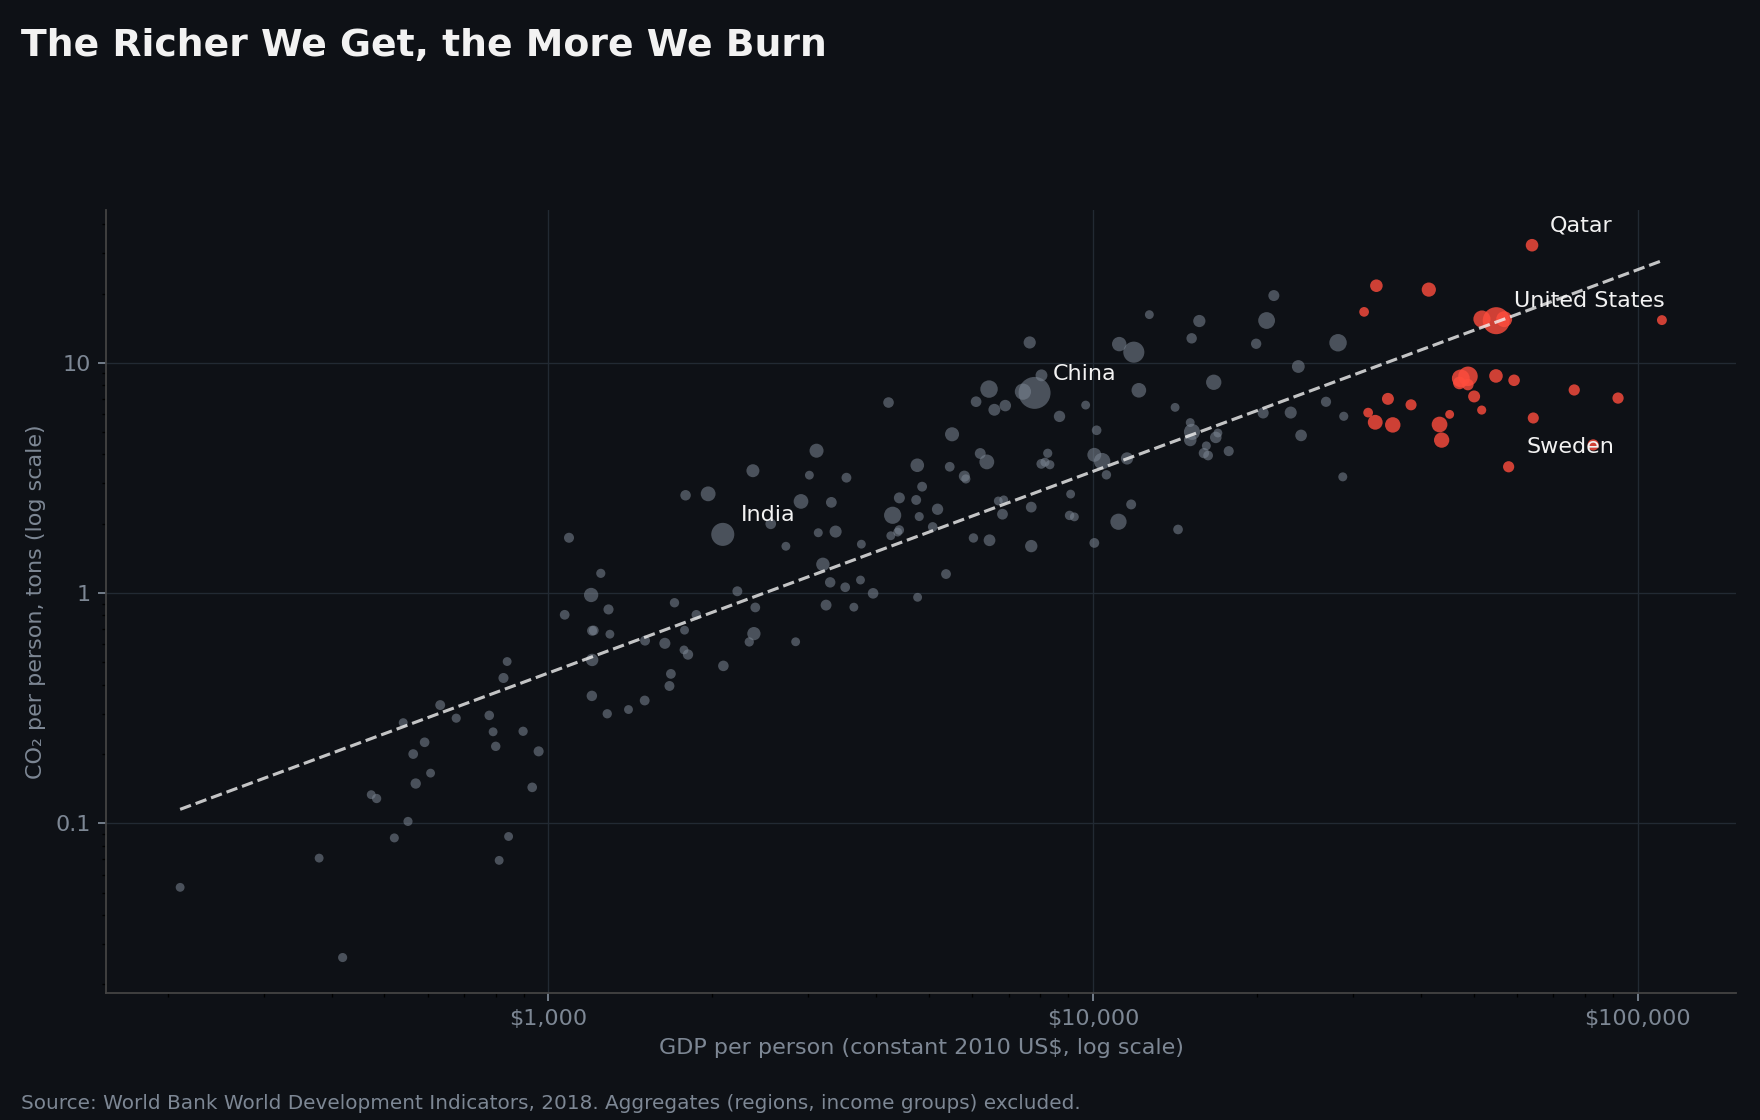
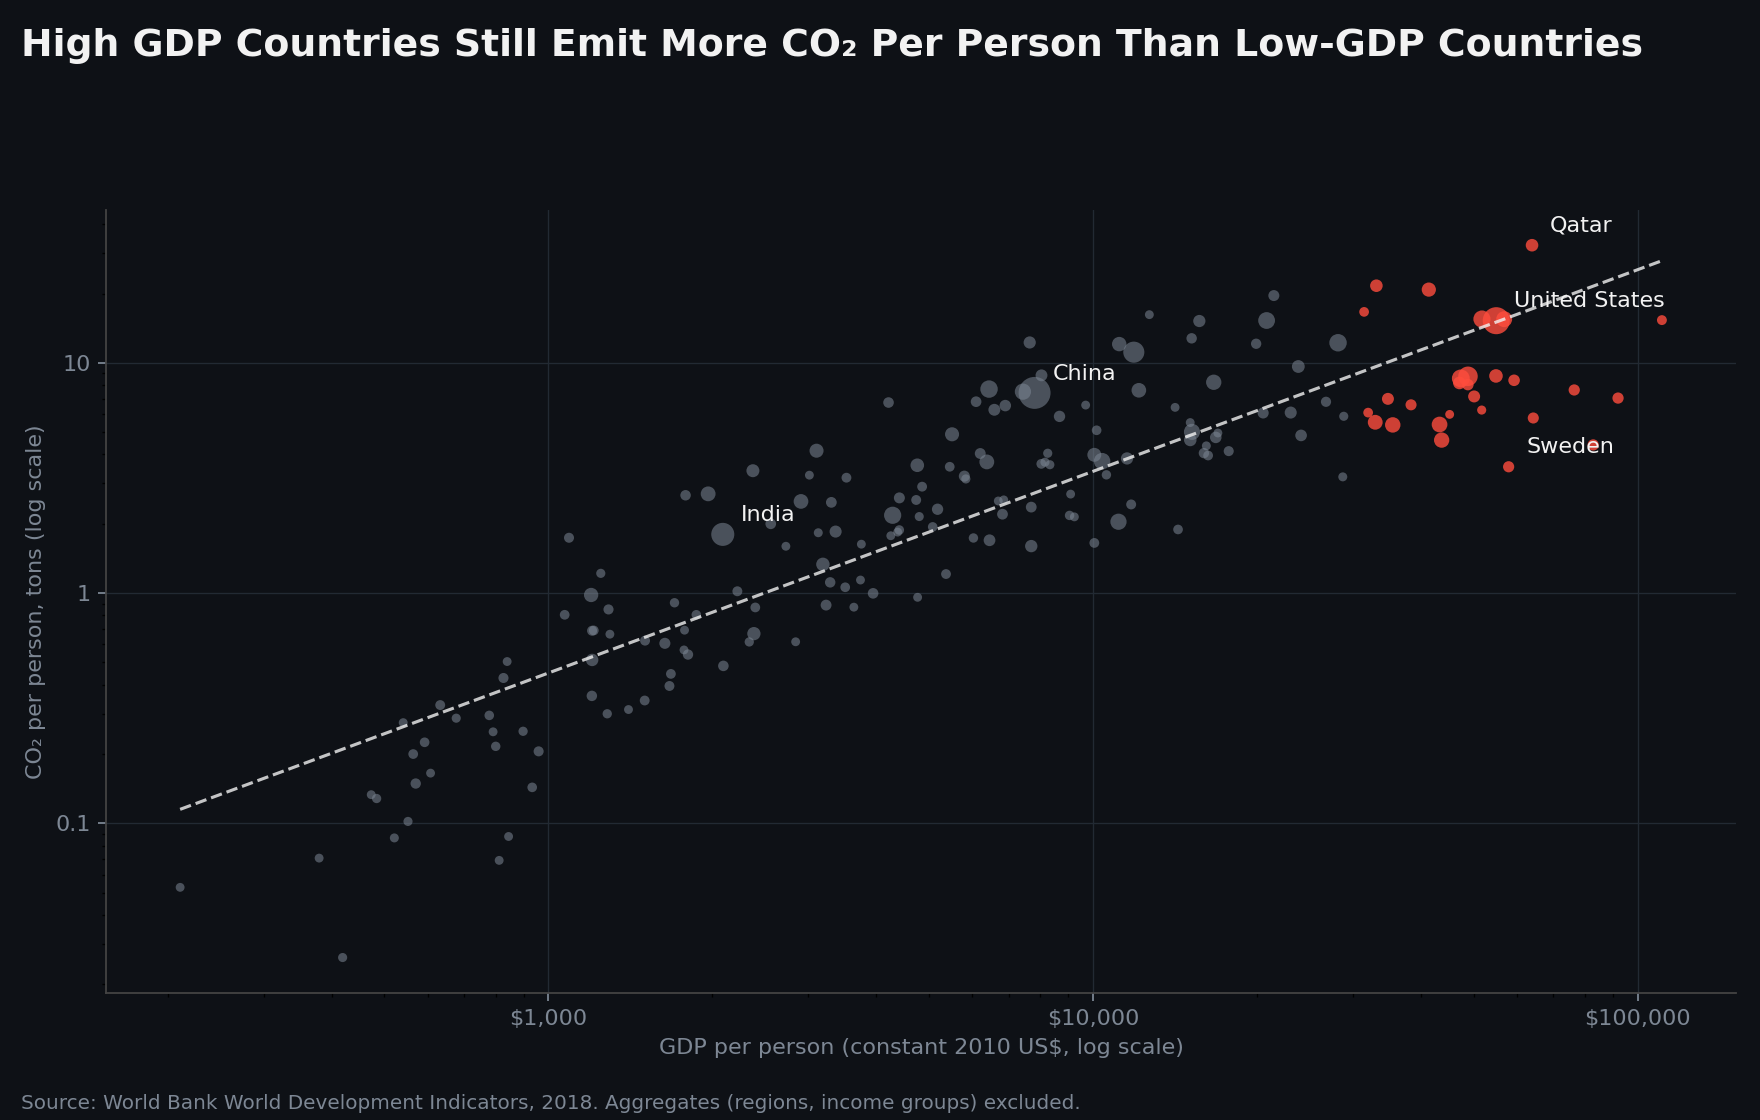
update

Changed region(s): [[0.0, 0.0, 0.9375, 0.0625]]

diff --git a/projects/project2/index.html b/projects/project2/index.html
@@ -182,7 +182,7 @@
 
         <figure>
           <img src="page1_viz1_decoupling_real_lines.png"
-               alt="Four small-multiple line charts for the United Kingdom, Sweden, Denmark and Germany, 1990 to 2018. In each, GDP per person (gold) rises above an index of 100 while CO2 per person (green) falls below it, with the gap between them shaded green.">
+               alt="Four small-multiple line charts for the United Kingdom, Sweden, United States and Germany, 1990 to 2018. In each, GDP per person (blue) rises above an index of 100 while CO2 per person (green) falls below it, with the gap between them shaded green.">
           <figcaption>GDP and CO<sub>2</sub> per person, indexed to 1990 (=100) levels, for four high-income countries. In each country the economy grew while per-capita emissions fell.</figcaption>
         </figure>
 
@@ -195,13 +195,13 @@
             The visualization hand picks four countries that exhibit success stories in recent history. The index on the 
             left axis is set to 100 in 1990, for both carbon and dollars, so that the reader can quickly see the scissor
             effect of rising GDP and falling emissions. The choice of 1990 is not arbitrary, as it is the baseline year used by the Kyoto Protocol.
-            It is worth noting that the choice of countries and reference year is a form of cherry-picking, 
-            which could either be an honest exhibition of countries that represent proof of progress or a misleading selection of data.
-            Here I believe it is likely a deceptive choice, as the audience may be led to believe that these four countries are representative 
-            of all rich countries, when in fact they are not.
+            This is cherry-picking but not of a trend that doesn't exist; 24 of the 41 high-income countries with data grew GDP per person while cutting CO<sub>2</sub>
+            per person, so the direction shown is true for a majority. What the selection exaggerates is the size of the effect.
+            These four cut per-person emissions by 21-44%, while the median rich country cut them by only 10%. A reader leaves with 
+            the right direction but an inflated sense of how far most countries have come.
 
-            Alternatives considered: I rejected a random sample of rich countries because the mixed results blurred the message,
-            and a later start year because 1990 has a policy justification (Kyoto) that makes it look principled.
+            Alternatives considered: I rejected plotting every rich country because it was too cluttered to read. I rejected other start years because they were less persuasive, and
+            1990 has a policy justification (Kyoto).
           </li>
           <li>
             <span class="score dec">−1</span>
@@ -210,16 +210,25 @@
             emphasize the difference between the two lines even further. Labels are placed directly on the end of the lines with 
             percentage changes rather than absolute values, which emphasizes relative change over time.
 
-            Alternatives considered: I rejected an axis starting at zero because it flattened both lines and made the divergence look modest,
+            Alternatives considered: I rejected an axis starting at zero because it flattened both lines and made the divergence look smaller,
             and I rejected plotting raw GDP and CO<sub>2</sub> values because dollars and tonnes can't share an axis, which would hide the "scissor" shape.
           </li>
           <li>
             <span class="score dec">−0.5</span>
             <strong>Lighter colors</strong>
-            The plots use lighter colors for the background, lines, and axes to try and make the chart feel more friendly and less serious.
-            This is a subtle choice, but it makes the chart feel more persuasive of the hopeful proposition that emissions and GDP can be separated.
+            The plots use a light background, with a viridis blue for GDP and a viridis green for emissions. Viridis is an established, 
+            colorblind-safe palette so the chart feels hopeful rather than alarming.
+            This makes the chart feel more persuasive of the hopeful proposition that emissions and GDP can be separated.
 
             Alternatives considered: I rejected a red or grey line for emissions because it framed the CO<sub>2</sub> line as a threat rather than a success.
+          </li>
+          <li>
+            <span class="score dec">−1</span>
+            <strong>Title framing</strong>
+            The title says "Many Rich Nations" even though only four hand-picked countries are shown, which invites the reader to
+            generalize. The bold end-labels then hand the reader the takeaway before they examine the charts.
+            Alternatives considered: I rejected a neutral title such as "GDP and Emissions in Four Countries, 1990–2018"
+            because it would not have been as persuasive.
           </li>
         </ul>
       </section>
